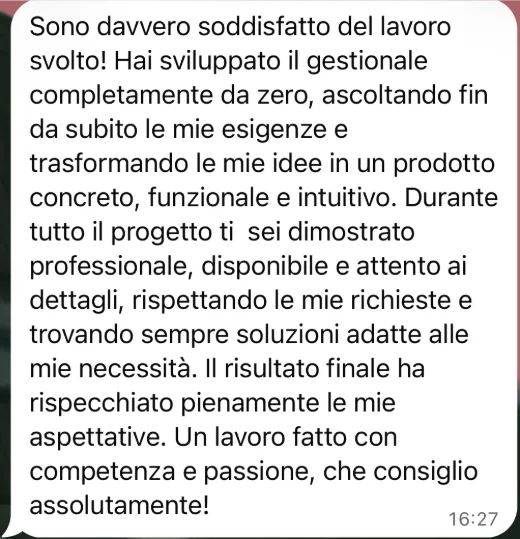
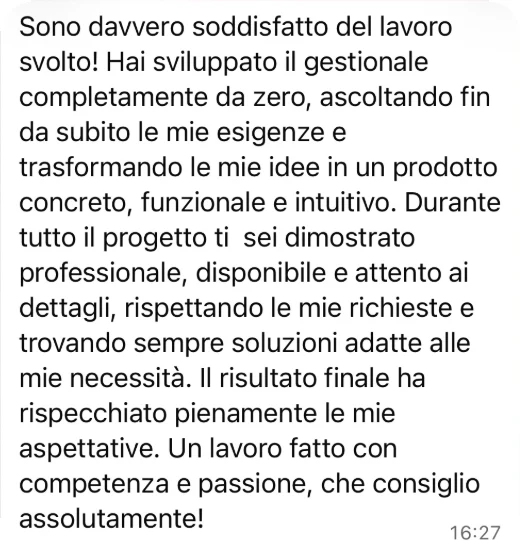
fix: screenshot delle recensioni ritagliati sulla bolla, senza sfondo ai bordi

Changed region(s): [[0.0, 0.0, 1.0, 1.0]]

diff --git a/index.html b/index.html
@@ -531,8 +531,8 @@
             </blockquote>
             <figcaption><b>Thomas Arduini</b><span>Titolare del ristorante Hedoné, Vimodrone</span><a class="project-link" href="#lavoro-ristorazione">Guarda il sito di Hedoné <span aria-hidden="true">↑</span></a></figcaption>
           </figure>
-          <button type="button" class="review-proof" data-proof-open data-full="assets/recensioni/thomas-hedone-1000.webp" data-h="1243" data-alt="Messaggio WhatsApp di Thomas Arduini con la recensione completa" aria-haspopup="dialog">
-            <img src="assets/recensioni/thomas-hedone-520.webp" alt="Screenshot del messaggio WhatsApp con la recensione di Thomas Arduini" width="520" height="646" decoding="async">
+          <button type="button" class="review-proof" data-proof-open data-full="assets/recensioni/thomas-hedone-1000.webp?v=2" data-h="1263" data-alt="Messaggio WhatsApp di Thomas Arduini con la recensione completa" aria-haspopup="dialog">
+            <img src="assets/recensioni/thomas-hedone-520.webp?v=2" alt="Screenshot del messaggio WhatsApp con la recensione di Thomas Arduini" width="520" height="657" decoding="async">
             <span class="review-proof-label mono">Il messaggio originale su WhatsApp <span aria-hidden="true">↗</span></span>
           </button>
         </li>
@@ -545,8 +545,8 @@
             </blockquote>
             <figcaption><b>Alexandru Iancu</b><span>Socio titolare di Home Unity, affitti brevi</span><a class="project-link" href="#lavoro-gestionali">Guarda il gestionale <span aria-hidden="true">↑</span></a></figcaption>
           </figure>
-          <button type="button" class="review-proof" data-proof-open data-full="assets/recensioni/alex-homeunity-1000.webp" data-h="1036" data-alt="Messaggio WhatsApp di Alexandru Iancu con la recensione completa" aria-haspopup="dialog">
-            <img src="assets/recensioni/alex-homeunity-520.webp" alt="Screenshot del messaggio WhatsApp con la recensione di Alexandru Iancu" width="520" height="539" decoding="async">
+          <button type="button" class="review-proof" data-proof-open data-full="assets/recensioni/alex-homeunity-1000.webp?v=2" data-h="1055" data-alt="Messaggio WhatsApp di Alexandru Iancu con la recensione completa" aria-haspopup="dialog">
+            <img src="assets/recensioni/alex-homeunity-520.webp?v=2" alt="Screenshot del messaggio WhatsApp con la recensione di Alexandru Iancu" width="520" height="549" decoding="async">
             <span class="review-proof-label mono">Il messaggio originale su WhatsApp <span aria-hidden="true">↗</span></span>
           </button>
         </li>
